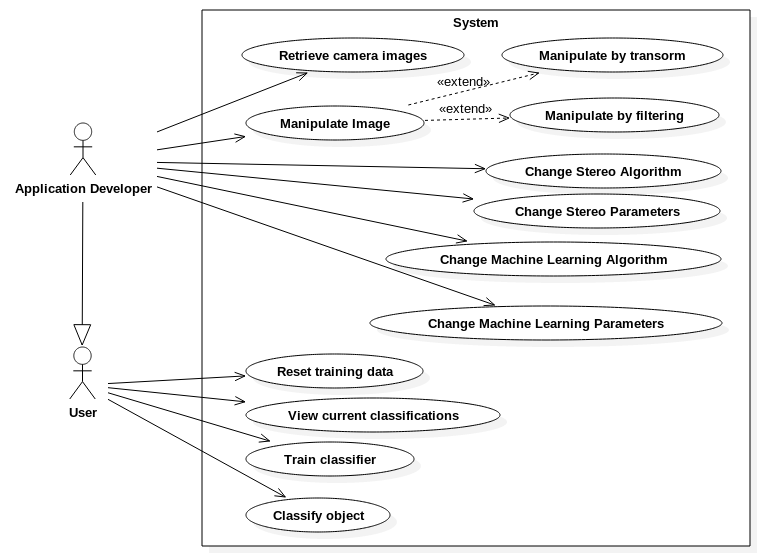
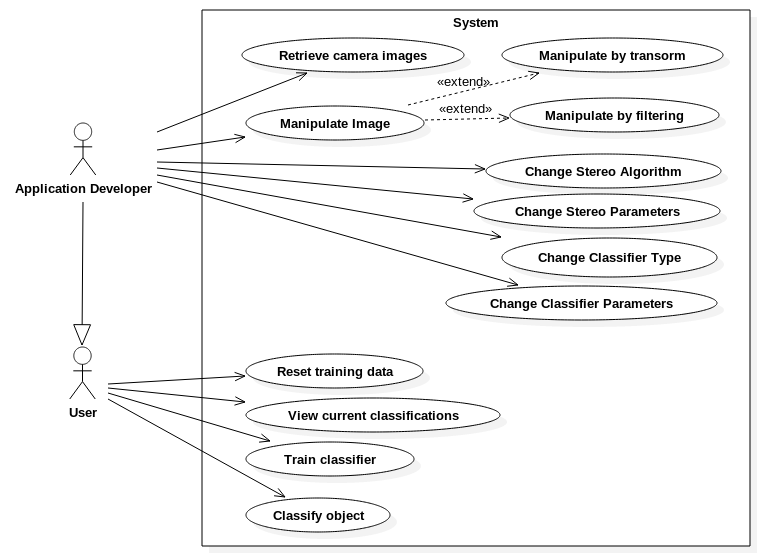
Added more requirements

diff --git a/report.tex b/report.tex
@@ -171,6 +171,8 @@ texcount -merge -sum -1 -opt=TCOpt.txt report.tex
 				To try and find out whether it is feasible to say that a leap motion can be used for computer vision in a simple way.
 				For example, to detect objects other than hands and tools with only a few function calls.
 				
+				This might start a new interest in computer vision.
+				Allowing these non-experts that might have thought it too difficult before, to experiment in a new and easy way.
 				There is a large community of interest in the leap motion forums, with many different projects using the current SDK.
 				It might be assumed from the mere interest on threads that contain any form of reference to computer vision, that carrying out research on this will be a useful piece of work.
 		\section{Hypotheses}
@@ -187,15 +189,15 @@ texcount -merge -sum -1 -opt=TCOpt.txt report.tex
 				The secondary goal is to make use of this library in an example application that shows successful detection of objects by the leap motion.
 			
 			\subsection{Development Methodology}
-					There are lots of development methodologies out there.
-					It is important to follow a methodology to
+					There are lots of development methodologies available for consideration.
+					It is important to follow a development methodology to
 					\begin{itemize}
 						\item Divide a large problem into easy to understand tasks.
-						\item Sharpen focus
-						\item Improve time estimates
-						\item Provide progress visibility
-						\item Provide better structure
-						\item Lead to better coding and documentation
+						\item Sharpen focus.
+						\item Improve time estimates.
+						\item Provide progress visibility.
+						\item Provide better structure.
+						\item Lead to better coding and documentation.
 					\end{itemize}\cite{book:dawson}.
 					
 					As this is not a team based project, methodologies such as SCRUM will not be considered.
@@ -203,7 +205,11 @@ texcount -merge -sum -1 -opt=TCOpt.txt report.tex
 					Many requirements will be explored throughout the development process.
 					Therefore an iterative approach will be followed.
 					With the first iteration being an example of a throw away prototype so as to explore technical uncertainties and ascertain initial requirements and scope estimate.
-					The later iterations will then follow a more of an evolutionary prototype approach.
+					The later iterations will then follow more of an evolutionary prototype approach.
+					Where a large upfront requirements analysis and design takes place in the first of the evolutionary prototypes.
+					This will be based on knowledge gained in the first iteration but not so much the implementation from the first iteration.
+					It will aim to have a good base structure for the rest of the iterations to be evolved from.
+					With tweaks to requirements happening in later iterations based on the evaluation of the previous implementation.
 					Figure \ref{fig:iterative} gives a visual representation of the iterative approach.
 					\begin{figure}[!h]
 						\begin{center}
@@ -224,7 +230,7 @@ texcount -merge -sum -1 -opt=TCOpt.txt report.tex
 						\item Classification
 					\end{enumerate}
 					Each section in the order of the list, is dependant on the previous work being completed.	
-					Therefore each iteration will aim to solve
+					Therefore each iteration will aim to solve the work break down in order.
 					Each iteration will be fully documented in chapter~\ref{chap:des&imp}.
 					\subsubsection{Iteration 1}
 					The first iteration will be an initial throwaway prototype.
@@ -274,12 +280,22 @@ texcount -merge -sum -1 -opt=TCOpt.txt report.tex
 		\end{itemize}
 		
 		\section{Report Structure}
-			\subsection{Chapter \ref{chap:background}}
-			\subsection{Chapter \ref{chap:req}}
-			\subsection{Chapter \ref{chap:des&imp}}
-			\subsection{Chapter \ref{chap:test}}
-			\subsection{Chapter \ref{chap:eval}}
-			\subsection{Chapter \ref{chap:concl}}
+			Here is a brief summary of what will be covered in each chapter.
+			\begin{itemize}
+			 \item \textbf{Chapter \ref{chap:background}}
+			 	is a literature review that covers the basic principles of stereo imaging and classification.
+			 \item \textbf{Chapter \ref{chap:req}}
+			 	defines the initial requirement that have been identified for the project.
+			 \item \textbf{Chapter \ref{chap:des&imp}}
+			 	shows the evolution of this project throughout its development.
+			 	It shows how the requirements and designs have evolved over the project lifecycle.
+			 	It also highlights the key decisions that were made throughout the implementation.
+			 \item \textbf{Chapter \ref{chap:test}}
+			 	
+			 \item \textbf{Chapter \ref{chap:eval}}
+			 
+			 \item \textbf{Chapter \ref{chap:concl}}
+			\end{itemize}				
 			
 		
 	%----------------------------------------- Chapter 2 -----------------------------------------%
@@ -329,8 +345,8 @@ texcount -merge -sum -1 -opt=TCOpt.txt report.tex
     				\end{center}
 				\end{figure}				
 				It is caused by the fact that different areas of a lens have slightly different focal lengths \cite[p. 42]{book:modern}.
-				There is a lot of information available on how distortion happens so only the basics will be covered here, however some reading suggestions are (READING SUGGESTIONS HERE).
-				The fundamental stages of processing images for use in computer vision comes down to geometry.
+				There is a lot of information available on how distortion happens so only the basics will be covered here. %, however some reading suggestions are (READING SUGGESTIONS HERE).
+				The fundamental stages of processing images for use in computer vision are based on geometry.
 				To reliably calculate depth in a scene, the system needs to know the intrinsic %and extrinsic 
 				parameters of a camera.
 				Essentially, the system wants to know if what the camera is producing is a true representation of the scene it is recording.
@@ -367,8 +383,8 @@ texcount -merge -sum -1 -opt=TCOpt.txt report.tex
 				%THIS ASSUMES KNOWLEDGE ON HOW A CAMERA WORKS
 				In the real world, the center of projection will not be precisely in the middle of the imaging sensor of a camera.
 				Therefore displacement values need to be considered, $c_{x}$ and $c_{y}$.
-				The resulting model allows us to pinpoint the point $Q$ with coordinates $(X,Y,Z)$ as a pixel location given as $(x_{screen}, y_{screen})$.
-				With the resulting mathematical model of $x_{screen}=f_{x}\left(\dfrac{X}{Z}\right)+c_{x}$, $y_{screen}=f_{y}\left(\dfrac{Y}{Z}\right)+c_{y}$.
+				The resulting model allows us to pinpoint the point $Q$ (a point in real space) with coordinates $(X,Y,Z)$ as a pixel location (a point on the image) where the pixel location is $(x_{screen}, y_{screen})$.
+				This results mathematical model of $x_{screen}=f_{x}\left(\dfrac{X}{Z}\right)+c_{x}$, $y_{screen}=f_{y}\left(\dfrac{Y}{Z}\right)+c_{y}$.
 				Having a model like this allows us to define the parameters of the camera so that false transformations of light being collected from the physical world can be corrected.
 				%MAYBE ADD SOME MORE STUFF ABOUT PIXEL MATCHING HERE
 				This is important for methods of image rectification which will be discussed later.
@@ -383,7 +399,7 @@ texcount -merge -sum -1 -opt=TCOpt.txt report.tex
 					The fisheye is a distortion where the image that is produced provides an near 180\degree span side-to-side \cite{book:sam}.
 					
 				\subsection{Image Rectification}
-				
+				 TODO
 				
 			\section{Classification}
 				\begin{quote}
@@ -425,7 +441,7 @@ texcount -merge -sum -1 -opt=TCOpt.txt report.tex
 						``\textit{the points that contain enough information to be picked out from one frame to the next.}''
 					\end{quote}
 					Where as, \citeasnoun[p. 179]{book:modern} describes corners as a local area where the orientation of the image gradient changes sharply; a corner in the more literal sense of the word.
-					\citeasnoun{book:modern} says a corner is a more specific term that can be described by the more general term of image point.
+					\citeasnoun{book:modern} says a corner is a more specific term of something that can be described as an image point.
 					This report will continue using the term corner as \citeasnoun{definition:cv} has, so as to avoid confusion with any code references in OpenCV later on.
 					
 					Corners are easy to match between different images.
@@ -482,6 +498,14 @@ texcount -merge -sum -1 -opt=TCOpt.txt report.tex
 			\input{retrieve_camera_images_use_case}
 			\input{manipulate_by_transform_use_case}
 			\input{classify_object_use_case}
+			\input{change_stereo_algorithm_use_case}
+			\input{change_stereo_parameters_use_case}
+			\input{change_classifier_type_use_case}
+			\input{change_classifier_parameters_use_case}
+			%\input{get_disparity_map_use_case}
+			%\input{reset_training_data_use_case}
+			%\input{view_current_classifications_use_case}
+			\input{train_classifier_use_case}
 		\clearpage
 		\section{Functional requirements}
 			
@@ -519,7 +543,11 @@ texcount -merge -sum -1 -opt=TCOpt.txt report.tex
 			The prioritisations have been worked out so that the fundamental elements of the framework will get created first.
 			Although the end product should be able to classify images, there is not yet a guarantee that it is possible to do so.
 			All of the previous requirements have to be implemented before any type of classification can be considered.
-
+		\section{Summary}
+			The initial requirements for the system have now been identified.
+			Now this is completed an initial design can be created.
+			Chapter~\ref{chap:des&imp} will make use of these requirements.
+			As part of the software development methodology being used (stated in chapter \ref{chap:introduction}) they might be evolved throughout the development lifecycle.
     		
 	
 	%----------------------------------------- Chapter 4 -----------------------------------------%

diff --git a/change_stereo_parameters_use_case.tex b/change_stereo_parameters_use_case.tex
@@ -1,0 +1,18 @@
+\begin{table}[h]
+\begin{tabular}{|p{1.5in}|p{3.4in}|}
+\hline
+\varusecase         & \texttt{ChangeStereoParameters}                                                                                                        \\ \hline
+\vardescription     & The application developer should be able to change the stereo algorithm parameters used to generate the disparity map. \\ \hline
+\varactor           & Application developer \\ \hline
+\varentry           & The application developer should pass in a valid set of parameters for the stereo algorithm. The stereo algorithm to be used should already be set.\\ \hline
+\varflow            & \begin{enumerate}
+                        \item Application developer passes in parameters.
+                        \item Framework checks parameters are valid.
+                        \item Framework sets parameters.
+                        \item Framework notifies application developer of a successful parameter set.
+                      \end{enumerate} \\ \hline
+\varaltflow         & If the parameters are not valid then an exception should be thrown. \\ \hline
+\varexit            & Application developer receives valid object for generating a disparity map. \\ \hline
+\end{tabular}
+\caption{Documented \texttt{ChangeStereoParameters} use case \protect {\label{tab:use_change_stereo_parameters}}}
+\end{table}

diff --git a/change_stereo_algorithm_use_case.tex b/change_stereo_algorithm_use_case.tex
@@ -1,0 +1,18 @@
+\begin{table}[h]
+\begin{tabular}{|p{1.5in}|p{3.4in}|}
+\hline
+\varusecase         & \texttt{ChangeStereoAlgorithm}                                                                                                        \\ \hline
+\vardescription     & The application developer should be able to change the stereo algorithm used to generate the disparity map. \\ \hline
+\varactor           & Application developer \\ \hline
+\varentry           & The application developer should pass in a valid pre defined flag to a constructor, stating what type of algorithm should be used when generating a disparity map. \\ \hline
+\varflow            & \begin{enumerate}
+                        \item Application developer passes in pre defined flag.
+                        \item Framework checks flag is valid.
+                        \item Framework constructs object based on flag.
+                        \item Framework returns a valid object.
+                      \end{enumerate} \\ \hline
+\varaltflow         & If the flag is not of a correct value then an exception should be thrown. \\ \hline
+\varexit            & Application developer receives valid object for generating a disparity map. \\ \hline
+\end{tabular}
+\caption{Documented \texttt{ChangeStereoAlgorithm} use case \protect {\label{tab:use_change_stereo_algorithm}}}
+\end{table}

diff --git a/change_classifier_parameters_use_case.tex b/change_classifier_parameters_use_case.tex
@@ -1,0 +1,18 @@
+\begin{table}[h]
+\begin{tabular}{|p{1.5in}|p{3.4in}|}
+\hline
+\varusecase         & \texttt{ChangeClassifierParameters}                                                                                                        \\ \hline
+\vardescription     & The application developer should be able to change the classifier parameters used to classify an object. \\ \hline
+\varactor           & Application developer \\ \hline
+\varentry           & The application developer should pass in a valid set of parameters for the classifier. The classifier to be used should already be set.\\ \hline
+\varflow            & \begin{enumerate}
+                        \item Application developer passes in parameters.
+                        \item Framework checks parameters are valid.
+                        \item Framework sets parameters.
+                        \item Framework notifies application developer of a successful parameter set.
+                      \end{enumerate} \\ \hline
+\varaltflow         & If the parameters are not valid then an exception should be thrown. \\ \hline
+\varexit            & Application developer receives valid object for classifying objects. \\ \hline
+\end{tabular}
+\caption{Documented \texttt{ChangeClassifierParameters} use case \protect {\label{tab:use_change_classifier_parameters}}}
+\end{table}

diff --git a/get_disparity_map_use_case.tex b/get_disparity_map_use_case.tex
@@ -1,0 +1,18 @@
+\begin{table}[h]
+\begin{tabular}{|p{1.5in}|p{3.4in}|}
+\hline
+\varusecase         & \texttt{GetDisparityMap}                                                                                                        \\ \hline
+\vardescription     & The application developer should be able to receive a disparity map, generated by running both camera images through a stereo correspondence algorithm. \\ \hline
+\varactor           & Application developer \\ \hline
+\varentry           & The Application developer must have passed in a valid image from both of the cameras in the same frame. \\ \hline
+\varflow            & \begin{enumerate}
+                        \item Application developer passes in an image from both cameras.
+                        \item Framework checks the images are valid.
+                        \item Framework runs images through stereo correspondence algorithm.
+                        \item Framework returns disparity map.
+                      \end{enumerate} \\ \hline
+\varaltflow         & If the images are not valid then an exception should be thrown. \\ \hline
+\varexit            & Application developer receives valid disparity map. \\ \hline
+\end{tabular}
+\caption{Documented \texttt{GetDisparityMap} use case \protect {\label{tab:use_get_disparity_map}}}
+\end{table}

diff --git a/change_classifier_type_use_case.tex b/change_classifier_type_use_case.tex
@@ -1,0 +1,18 @@
+\begin{table}[h]
+\begin{tabular}{|p{1.5in}|p{3.4in}|}
+\hline
+\varusecase         & \texttt{ChangeClassifierType}                                                                                                        \\ \hline
+\vardescription     & The application developer should be able to change the type of classifier that gets used to classify objects. \\ \hline
+\varactor           & Application developer \\ \hline
+\varentry           & The application developer should pass in a valid pre defined flag to a constructor, stating what type of classifier will be used.\\ \hline
+\varflow            & \begin{enumerate}
+                        \item Application developer passes in pre defined flag.
+                        \item Framework checks flag is valid.
+                        \item Framework constructs object based on flag.
+                        \item Framework returns a valid object.
+                      \end{enumerate} \\ \hline
+\varaltflow         & If the flag is not valid then an exception should be thrown. \\ \hline
+\varexit            & Application developer receives valid object for generating a disparity map. \\ \hline
+\end{tabular}
+\caption{Documented \texttt{ChangeClassifierType} use case \protect {\label{tab:use_change_classifier_type}}}
+\end{table}

diff --git a/train_classifier_use_case.tex b/train_classifier_use_case.tex
@@ -1,0 +1,19 @@
+\begin{table}[h]
+\begin{tabular}{|p{1.5in}|p{3.4in}|}
+\hline
+\varusecase         & \texttt{TrainClassifier} \\ \hline
+\vardescription     & The user should be able to ask the framework to classify new object in images. \\ \hline
+\varactor           & User \\ \hline
+\varentry           & The leap motion controller must be successfully calibrated and receiving valid images. The images being passed into the classifier must be valid.\\ \hline
+\varflow            & \begin{enumerate}
+                        \item User passes image or a group of images into the classifier.
+                        \item Framework checks images are valid.
+                        \item Framework trains the classifier with the new images.
+                        \item Framework notifies user on successful classification.
+                        
+                      \end{enumerate} \\ \hline
+\varaltflow         & If the images are not valid then the framework will notify the User. If training the classifier fails then the user will be notified.\\ \hline
+\varexit            & User is notified on success of training. \\ \hline
+\end{tabular}
+\caption{Documented \texttt{TrainClassifier} use case \protect {\label{tab:use_train_classifier}}}
+\end{table}

diff --git a/retrieve_camera_images_use_case.tex b/retrieve_camera_images_use_case.tex
@@ -6,11 +6,11 @@
 \varactor           & Application developer \\ \hline
 \varentry           & The framework and the system it is being used on, must have the relevant dependencies loaded and the leap motion controller connected. \\ \hline
 \varflow            & \begin{enumerate}
-                        \item Application developer requests an image
-                        \item Framework checks leap motion is ready
-                        \item Framework retrieves image from \texttt{LeapSDK}
-                        \item Framework converts image to usable format
-                        \item Framework returns image
+                        \item Application developer requests an image.
+                        \item Framework checks leap motion is ready.
+                        \item Framework retrieves image from \texttt{LeapSDK}.
+                        \item Framework converts image to usable format.
+                        \item Framework returns image.
                       \end{enumerate} \\ \hline
 \varaltflow         & If leap motion controller is not ready , framework throws \texttt{LeapNotFound} exception. \\ \hline
 \varexit            & Application developer receives valid image. \\ \hline

diff --git a/classify_object_use_case.tex b/classify_object_use_case.tex
@@ -6,10 +6,10 @@
 \varactor           & User \\ \hline
 \varentry           & The leap motion controller must be successfully calibrated and receiving valid images. The classifier must have been trained before detecting objects.\\ \hline
 \varflow            & \begin{enumerate}
-                        \item User requests classification of image
-                        \item Framework checks image is valid
-                        \item Framework runs object detection algorithm
-                        \item Framework returns classification of image
+                        \item User requests classification of image.
+                        \item Framework checks image is valid.
+                        \item Framework runs object detection algorithm.
+                        \item Framework returns classification of image.
                         
                       \end{enumerate} \\ \hline
 \varaltflow         & If the image is not valid then the framework will notify the User. If no classification can be given then a pre defined value will be given to the user stating this.\\ \hline
